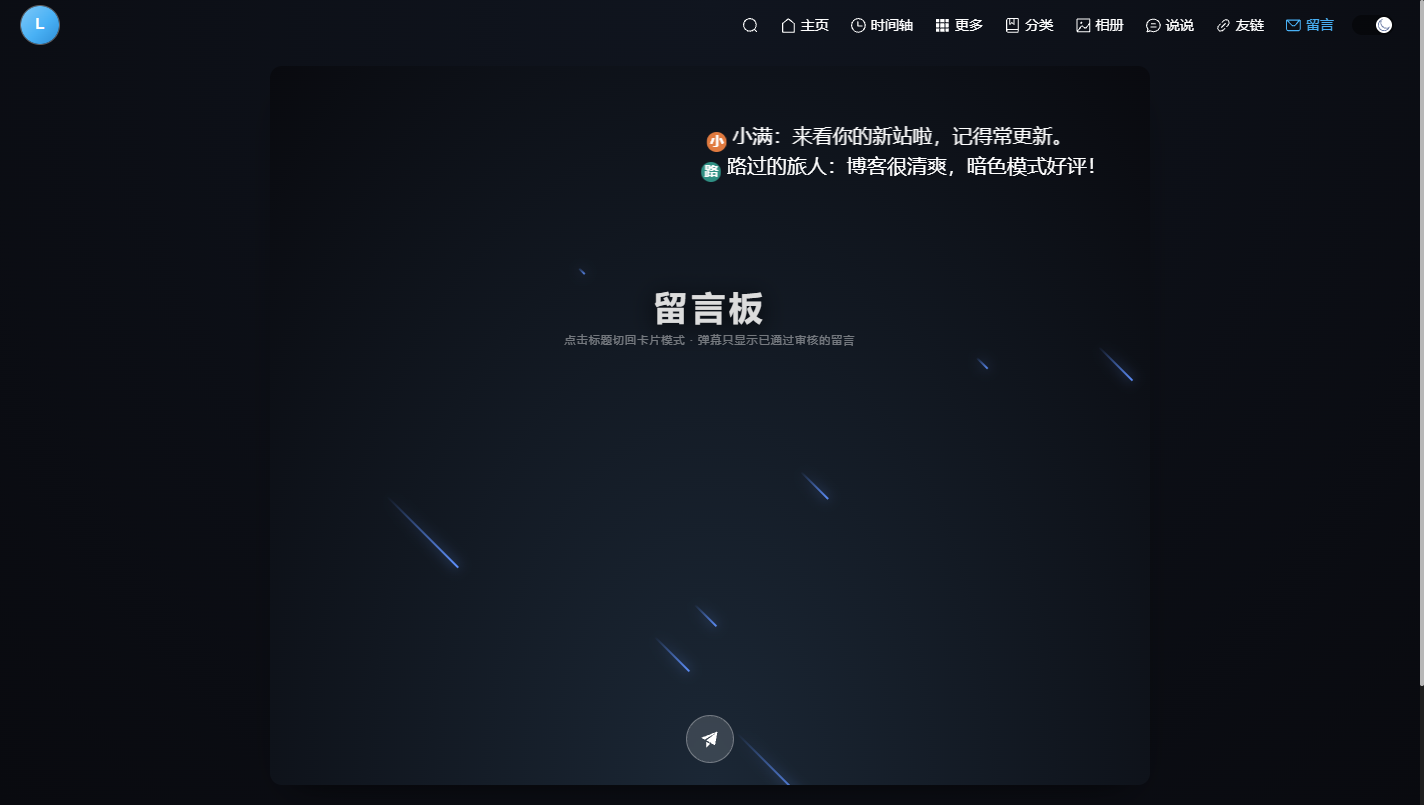
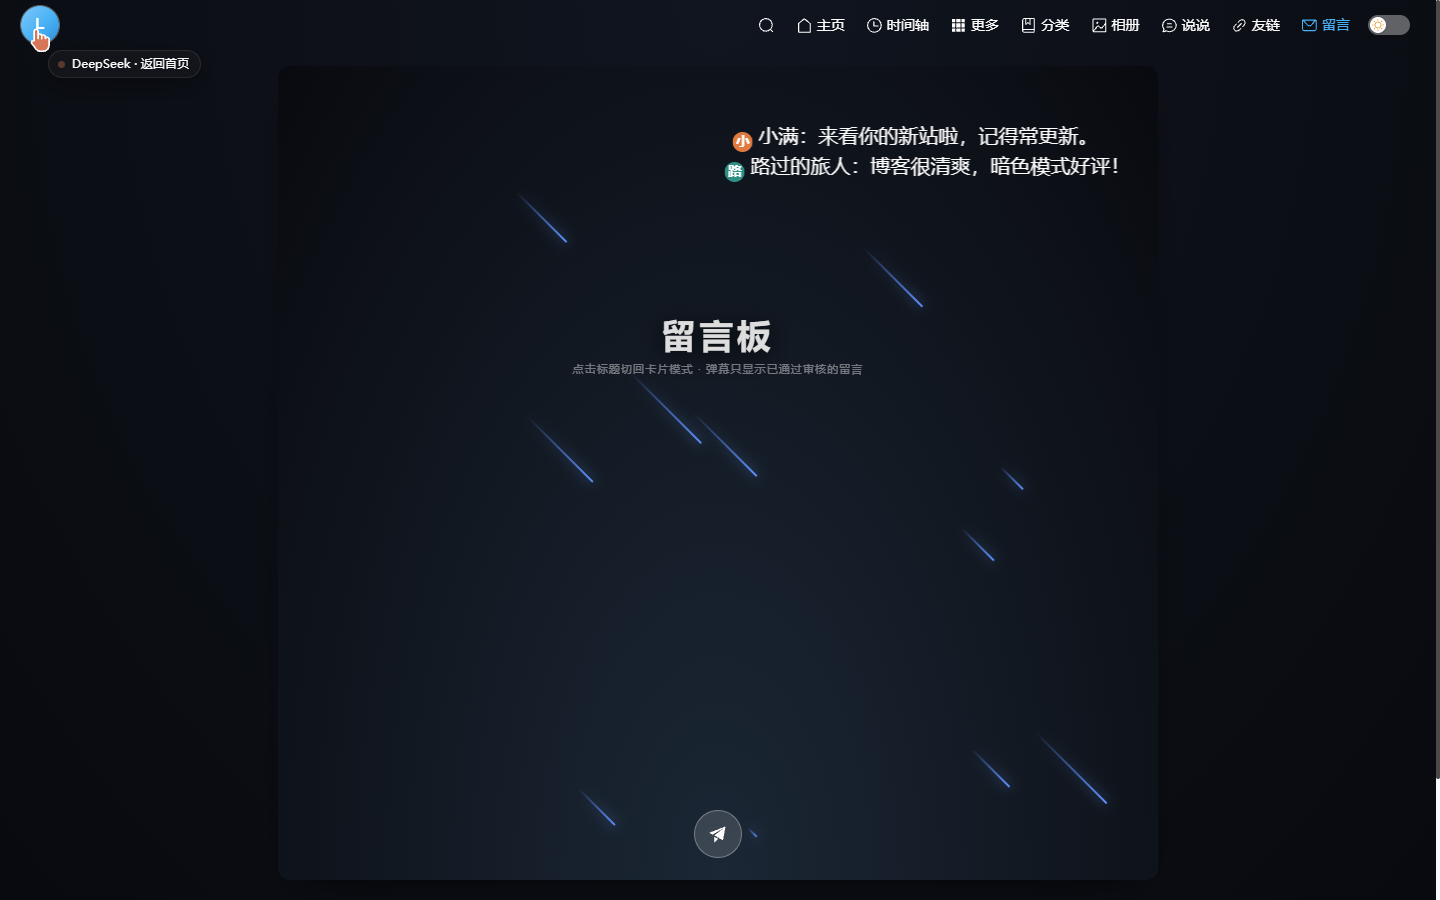
feat(web): 留言板默认进入弹幕模式
留言板首次进入直接是夜空弹幕墙（无本地记录时默认 danmaku），标题点击可切回卡片模式并记住选择；弹幕速度放缓到整屏约 22s、一轮播完 400ms 后重新循环，少量留言也能持续飘过。

diff --git a/blog-web/src/views/message/MessagePage.vue b/blog-web/src/views/message/MessagePage.vue
@@ -14,8 +14,18 @@ type MessageMode = 'card' | 'danmaku'
 
 const CARD_PAGE_SIZE = 10
 const DANMAKU_PAGE_SIZE = 50
+const MODE_STORAGE_KEY = 'luna-message-mode'
 
-const mode = ref<MessageMode>('card')
+function initialMode(): MessageMode {
+  try {
+    const stored = window.localStorage.getItem(MODE_STORAGE_KEY)
+    return stored === 'card' || stored === 'danmaku' ? stored : 'danmaku'
+  } catch {
+    return 'danmaku'
+  }
+}
+
+const mode = ref<MessageMode>(initialMode())
 const messages = ref<Message[]>([])
 const page = ref(1)
 const totalPages = ref(1)
@@ -36,6 +46,11 @@ function scrollTop(): void {
 
 function switchMode(): void {
   mode.value = mode.value === 'card' ? 'danmaku' : 'card'
+  try {
+    window.localStorage.setItem(MODE_STORAGE_KEY, mode.value)
+  } catch {
+    /* localStorage 不可用时忽略 */
+  }
   scrollTop()
 }
 
@@ -117,6 +132,7 @@ watch(sentinelRef, (el) => {
 
 onMounted(() => {
   void loadFirstPage()
+  if (mode.value === 'danmaku') void loadDanmaku()
 })
 
 onBeforeUnmount(() => {

diff --git a/blog-web/src/components/message/DanmakuStage.vue b/blog-web/src/components/message/DanmakuStage.vue
@@ -38,7 +38,7 @@ const inputRef = ref<HTMLInputElement | null>(null)
 
 const hasDanmaku = computed(() => !props.loading && props.messages.length > 0)
 
-/** 留言多时让库自己 loop；留言少时一轮播完再重挂，避免同几条刷屏 */
+/** 留言少时一轮播完再重挂，避免同几条同时刷屏 */
 const loopDanmaku = computed(() => props.messages.length > 100)
 const playKey = ref(0)
 let restartTimer = 0
@@ -48,7 +48,7 @@ function handlePlayEnd(): void {
   window.clearTimeout(restartTimer)
   restartTimer = window.setTimeout(() => {
     playKey.value += 1
-  }, 700)
+  }, 400)
 }
 
 watch(
@@ -160,7 +160,7 @@ async function send(): Promise<void> {
         :key="playKey"
         class="danmaku-stage__danmaku"
         :danmus="danmakuItems"
-        :speeds="60"
+        :speeds="40"
         :font-size="20"
         :loop="loopDanmaku"
         extra-style="color: #fff"

diff --git a/docs/DESIGN.md b/docs/DESIGN.md
@@ -83,7 +83,7 @@ banner 默认是 CSS 天空 + 云层；后台「站点配置 → 页面横幅」
 | 搜索 `/search` | 大输入框 + 结果卡片列表 |
 | 说说 `/talks` | 微博式卡片流（头像、时间、正文、九宫格图、点赞、评论） |
 | 相册 `/albums`、`/albums/:id` | 相册卡片网格（封面 16:10）→ 详情瀑布流 + `el-image` 大图预览 |
-| 留言板 `/message` | 沿用原站：标题可点击切换「卡片 / 弹幕」双模式（模式写入 localStorage）→ 卡片模式为双列彩色面板（22rem 高：头像 + 昵称胶囊 + `#序号`、15rem 可滚动正文、底部时间胶囊与点赞），无限滚动；弹幕模式为夜空 + 20 颗流星全幅舞台，中央标题切回卡片，hover 发布键展开胶囊输入；发布走 480px 弹窗（昵称 / 内容 / 弹幕颜色） |
+| 留言板 `/message` | 沿用原站：默认进入弹幕模式，标题可点击切换「弹幕 / 卡片」（选择写入 localStorage）→ 卡片模式为双列彩色面板（22rem 高：头像 + 昵称胶囊 + `#序号`、15rem 可滚动正文、底部时间胶囊与点赞），无限滚动；弹幕模式为夜空 + 20 颗流星全幅舞台，中央标题切回卡片，hover 发布键展开胶囊输入；发布走 480px 弹窗（昵称 / 内容 / 弹幕颜色） |
 | 友链 `/friends` | 卡片墙 + 「申请友链」弹窗（访客免登录） |
 | 资源 `/resources` | 按分组（前端/后端/工具…）的卡片列表 |
 | 关于 `/about` | 站点信息、社交链接、统计 |

diff --git a/README.md b/README.md
@@ -10,7 +10,7 @@
 表格化内容页），技术栈则是全新的一套，便于从旧站平滑迁移。
 
 - 前台：分页文章列表 + 推荐位、Markdown 详情（代码高亮 / 目录 / 点赞 / 评论）、分类 / 标签 / 时间轴 / 搜索、
-  说说、相册（照片墙 + 大图预览）、留言墙（彩色卡片 / 夜空弹幕双模式）、资源、友链、关于、RSS、404
+  说说、相册（照片墙 + 大图预览）、留言墙（默认夜空弹幕，可切彩色卡片）、资源、友链、关于、RSS、404
 - 后台：登录 + 首次登录强制改密、仪表盘、文章（md-editor-v3 编辑、草稿 / 发布 / 推荐）、分类、标签、
   评论审核与回复、说说、相册、留言审核、资源、友链、站点配置（含 13 个页面的横幅图自定义上传）、通知中心、个人中心
 - 服务：Koa 3 + Sequelize 6 + MySQL 8，JWT 鉴权、限频、敏感词、上传、RSS、统一错误响应
